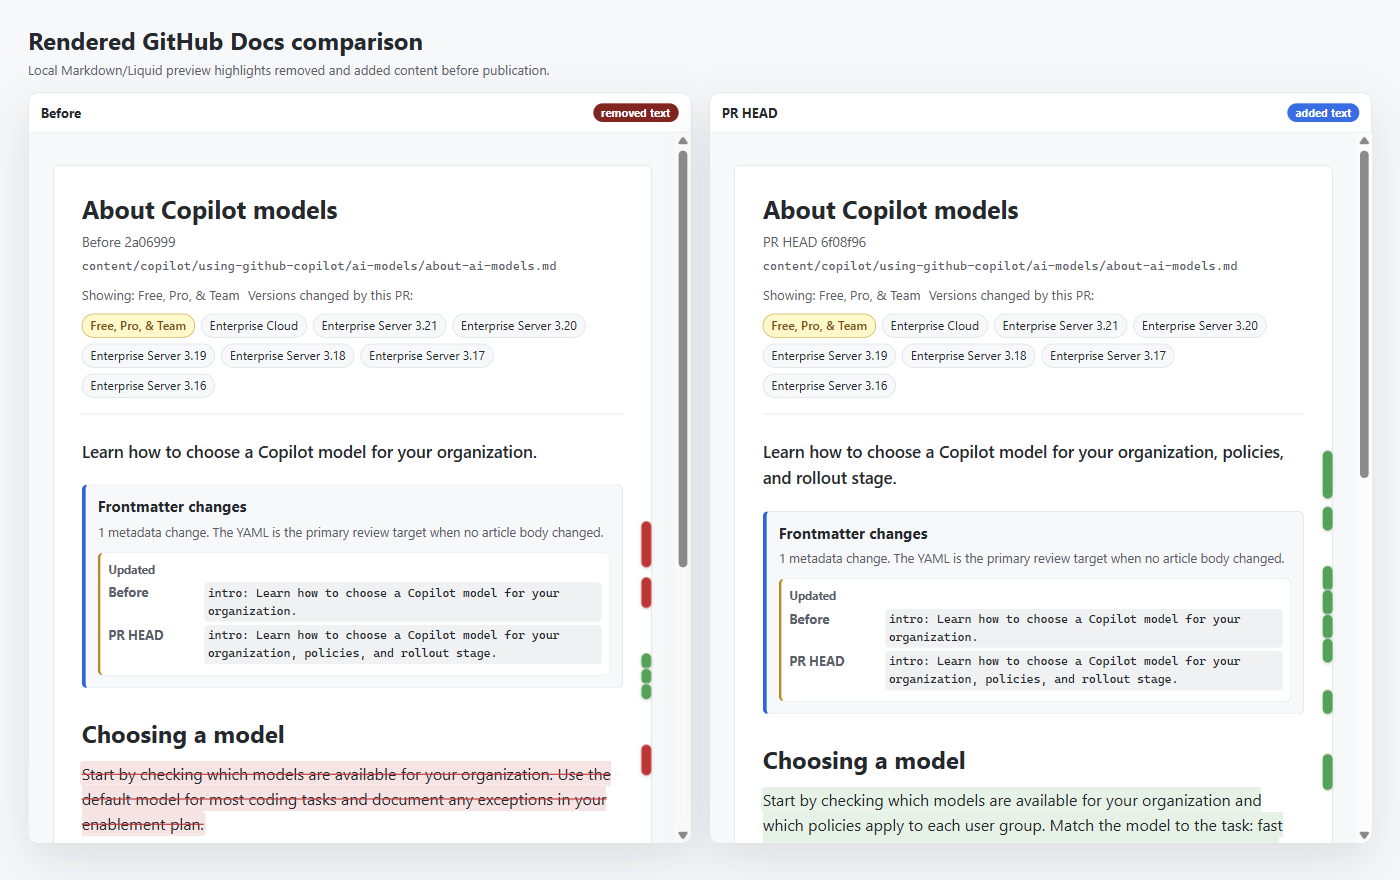
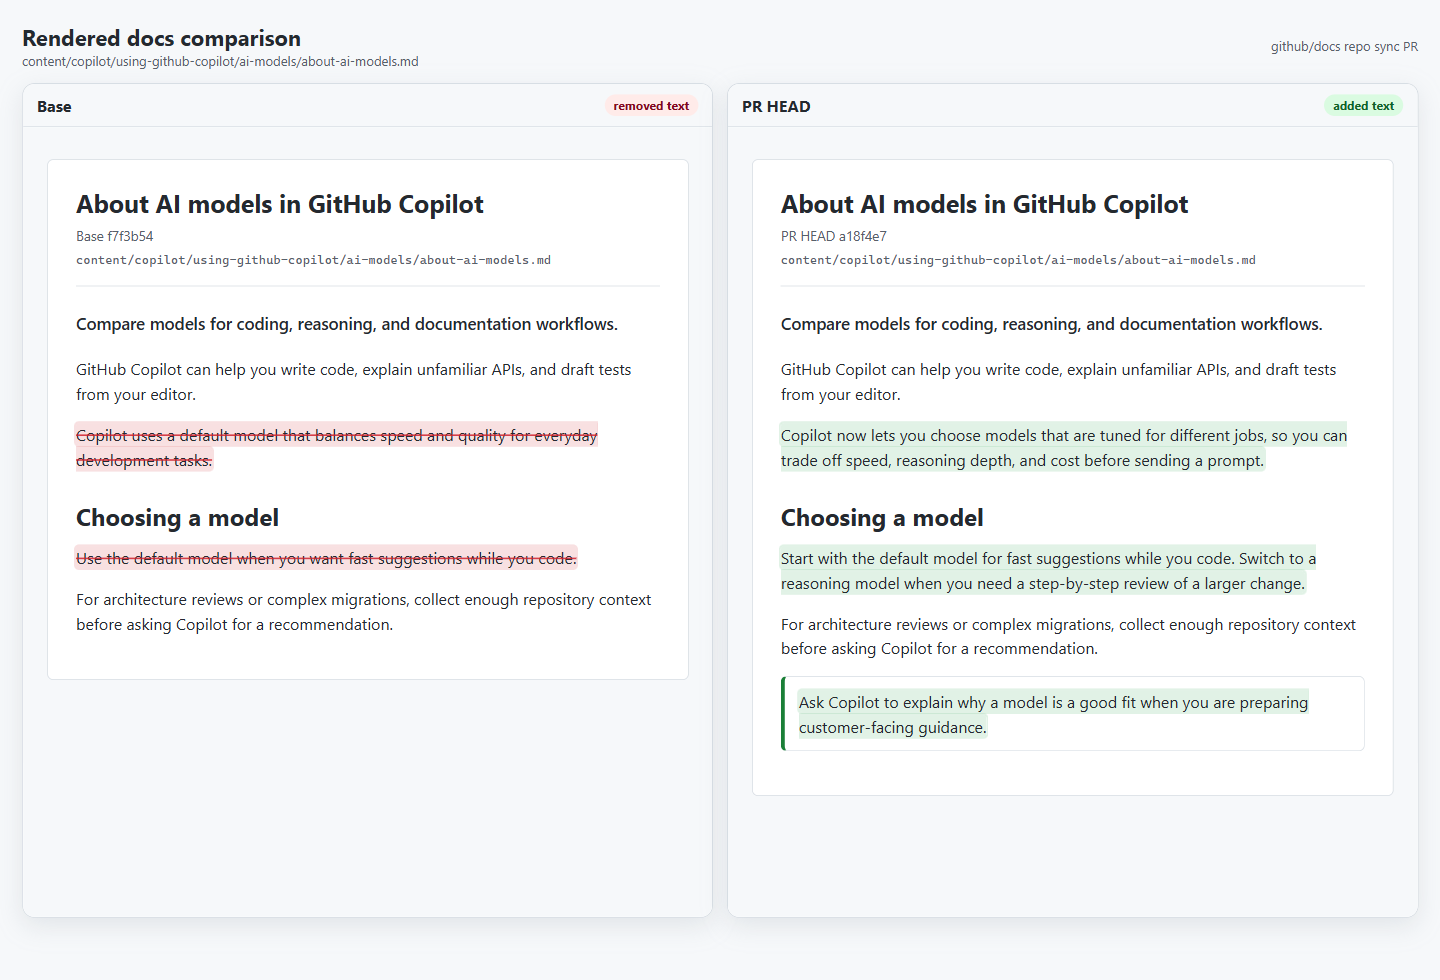
Fix preview frontmatter summary wording

diff --git a/src/RepoSyncRadar.Core/Services/Preview/MarkdownPreviewRenderer.cs b/src/RepoSyncRadar.Core/Services/Preview/MarkdownPreviewRenderer.cs
@@ -131,6 +131,7 @@ internal static partial class MarkdownPreviewRenderer
         string titleHtml;
         string? introHtml;
         var showRepoPath = false;
+        var hasVisibleBody = false;
         string body;
 
         if (markdown is null)
@@ -178,7 +179,8 @@ internal static partial class MarkdownPreviewRenderer
             var liquidNeutralized = NeutralizeLiquid(autotitleMarkdownRewritten);
             body = Markdown.ToHtml(liquidNeutralized, _pipeline);
             body = RestoreEscapedRenderedDiffMarkers(body);
-            if (!HasVisibleBodyMarkup(body))
+            hasVisibleBody = HasVisibleBodyMarkup(body);
+            if (!hasVisibleBody)
             {
                 body = frontmatterTitle is null && frontmatterIntro is null
                     ? "<p class=\"rsr-empty\">空の Markdown ファイルです。</p>"
@@ -333,7 +335,7 @@ internal static partial class MarkdownPreviewRenderer
         }
         if (markdown is not null)
         {
-            html.Append(RenderFrontmatterDiff(frontmatterChanges));
+            html.Append(RenderFrontmatterDiff(frontmatterChanges, hasVisibleBody));
         }
         html.AppendLine(body);
         html.AppendLine("</article>");
@@ -1776,7 +1778,7 @@ internal static partial class MarkdownPreviewRenderer
         });
     }
 
-    private static string RenderFrontmatterDiff(IReadOnlyList<MarkdownFrontmatterChange>? changes)
+    private static string RenderFrontmatterDiff(IReadOnlyList<MarkdownFrontmatterChange>? changes, bool hasVisibleBody)
     {
         if (changes is null || changes.Count == 0)
         {
@@ -1788,7 +1790,9 @@ internal static partial class MarkdownPreviewRenderer
         html.Append("<h2>フロントマターの変更</h2>");
         html.Append("<p class=\"rsr-frontmatter-diff-overview\">")
             .Append(changes.Count.ToString(CultureInfo.InvariantCulture))
-            .Append(" 件のメタデータ差分があります。本文がないため、レビュー対象は主にこの YAML です。</p>");
+            .Append(hasVisibleBody
+                ? " 件のメタデータ差分があります。本文の差分とあわせて確認してください。</p>"
+                : " 件のメタデータ差分があります。本文がないため、レビュー対象は主にこの YAML です。</p>");
         html.Append("<ul class=\"rsr-frontmatter-diff-list\">");
         foreach (var change in changes.Take(12))
         {

diff --git a/tests/RepoSyncRadar.Core.Tests/Services/Preview/MarkdownPreviewRendererTests.cs b/tests/RepoSyncRadar.Core.Tests/Services/Preview/MarkdownPreviewRendererTests.cs
@@ -283,6 +283,8 @@ public sealed class MarkdownPreviewRendererTests
         Assert.Contains("permissions: Enterprise owners and billing managers can download the usage report for enterprises.", html, StringComparison.Ordinal);
         Assert.Contains("Organization owners can download the usage report for standalone organizations.", html, StringComparison.Ordinal);
         Assert.Contains("Same rendered body.", html, StringComparison.Ordinal);
+        Assert.Contains("本文の差分とあわせて確認してください", html, StringComparison.Ordinal);
+        Assert.DoesNotContain("本文がないため、レビュー対象は主にこの YAML", html, StringComparison.Ordinal);
     }
 
     [Fact]
